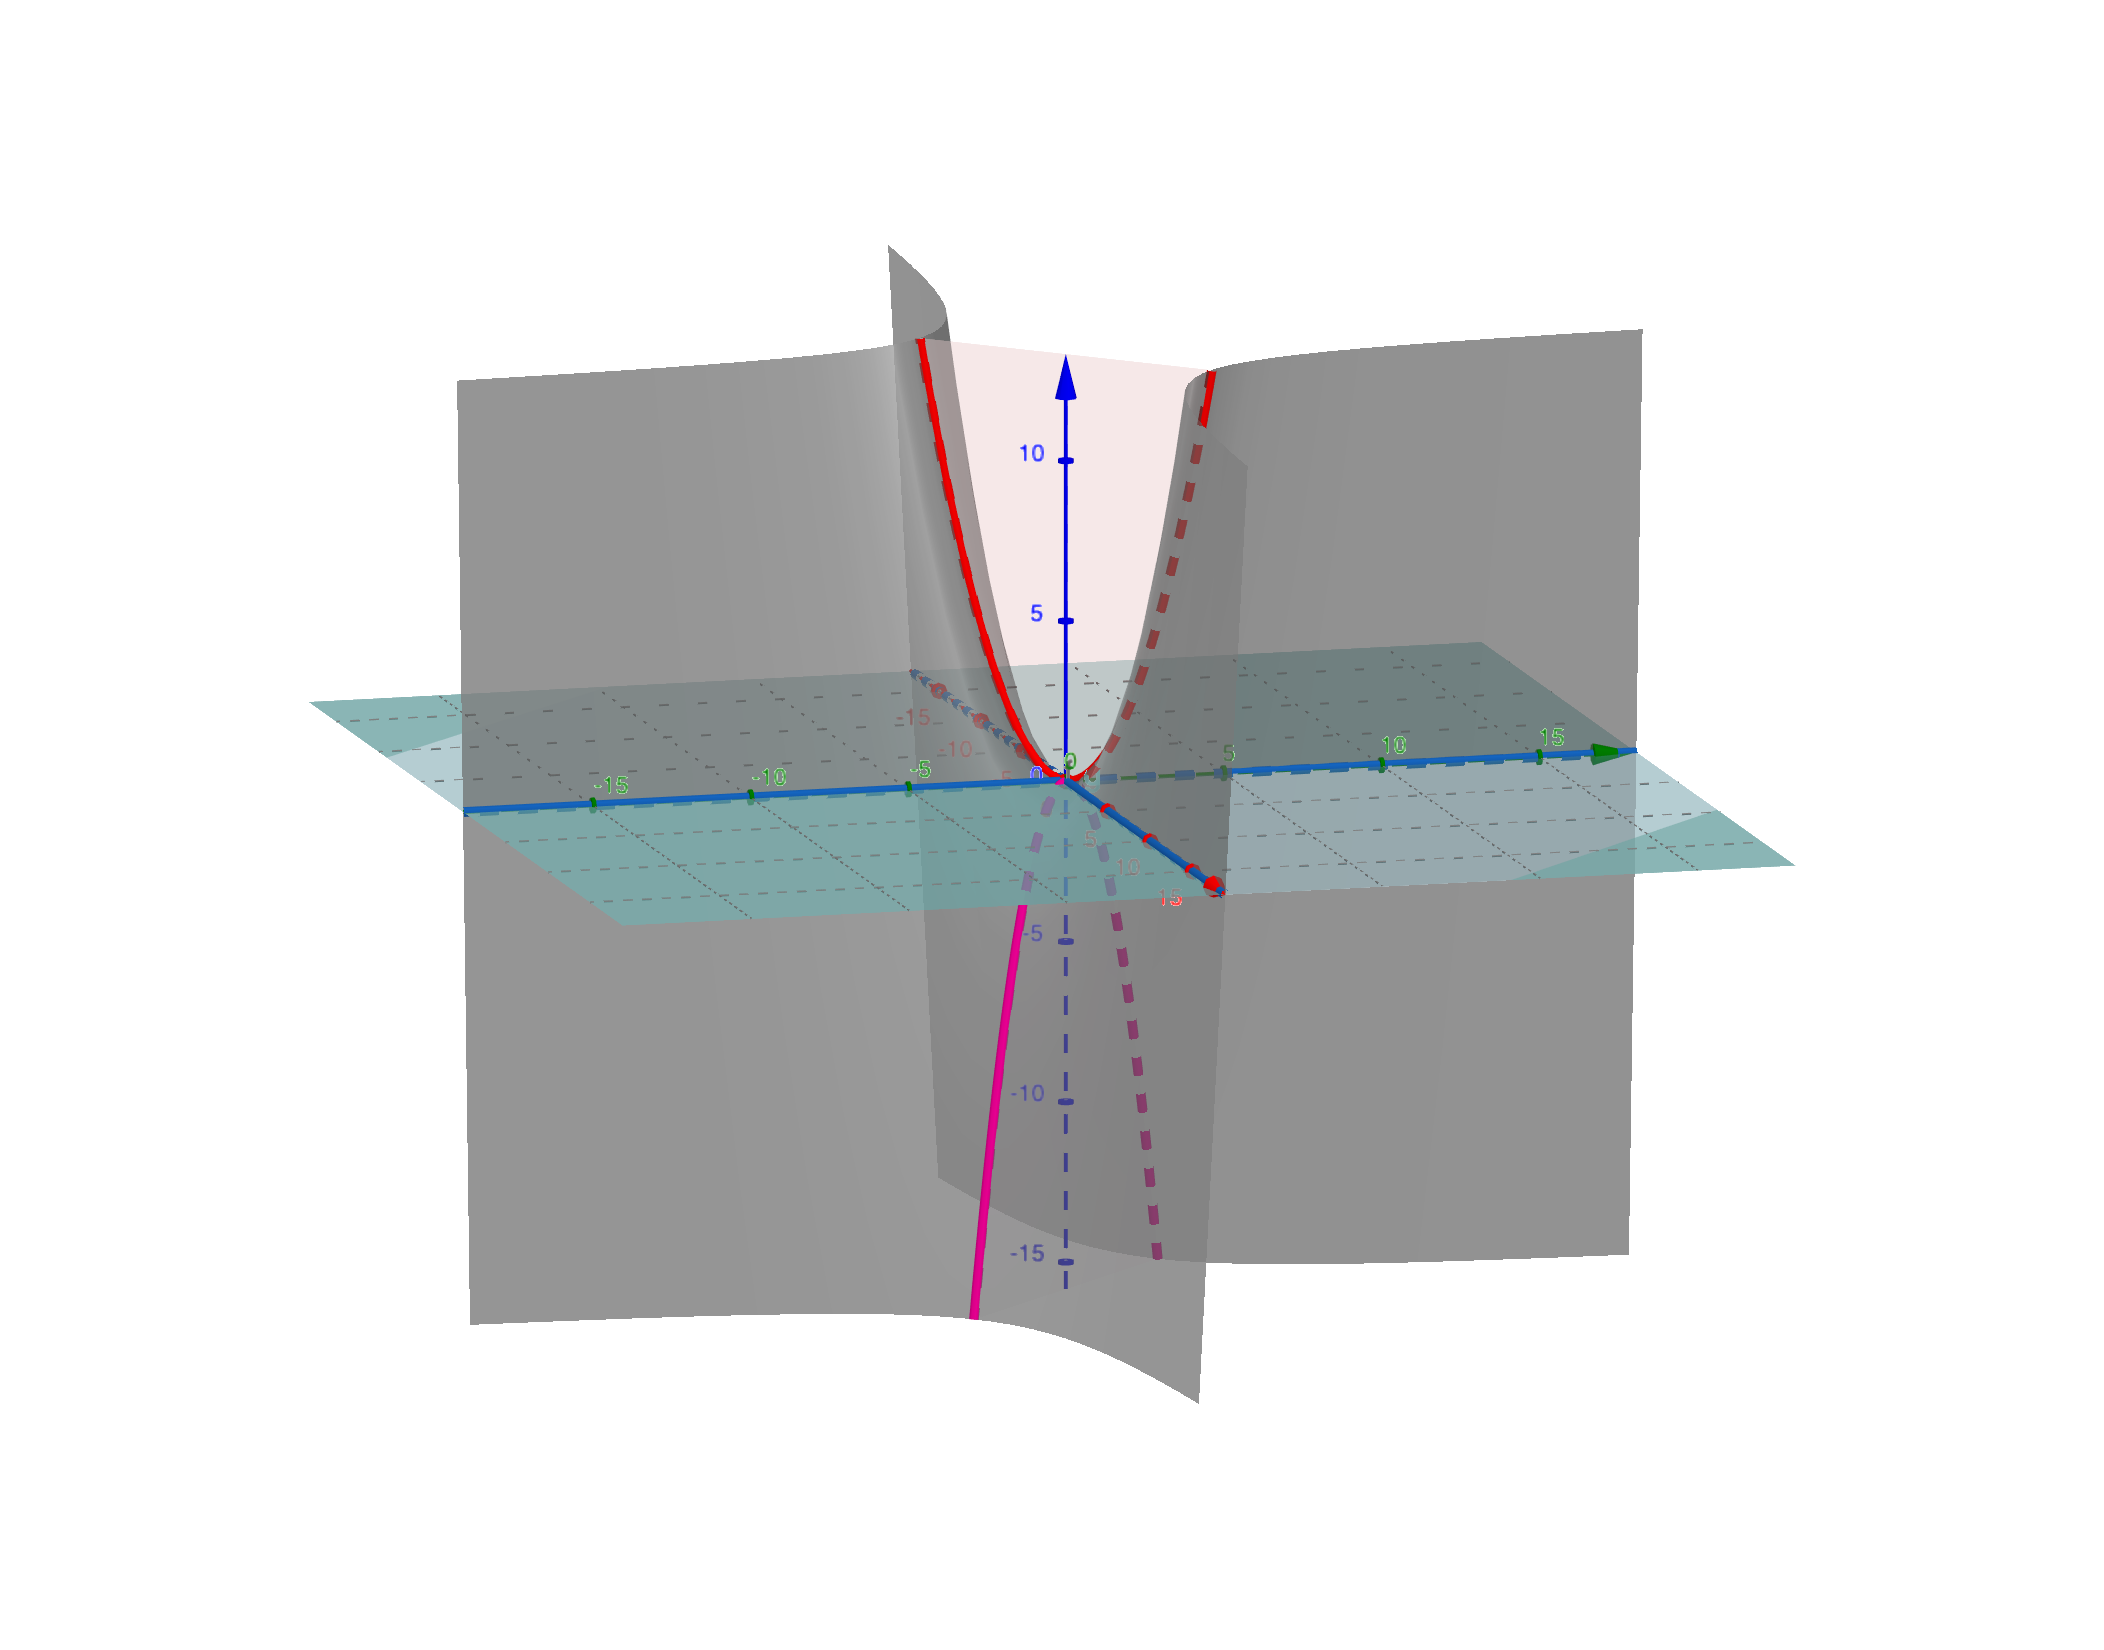
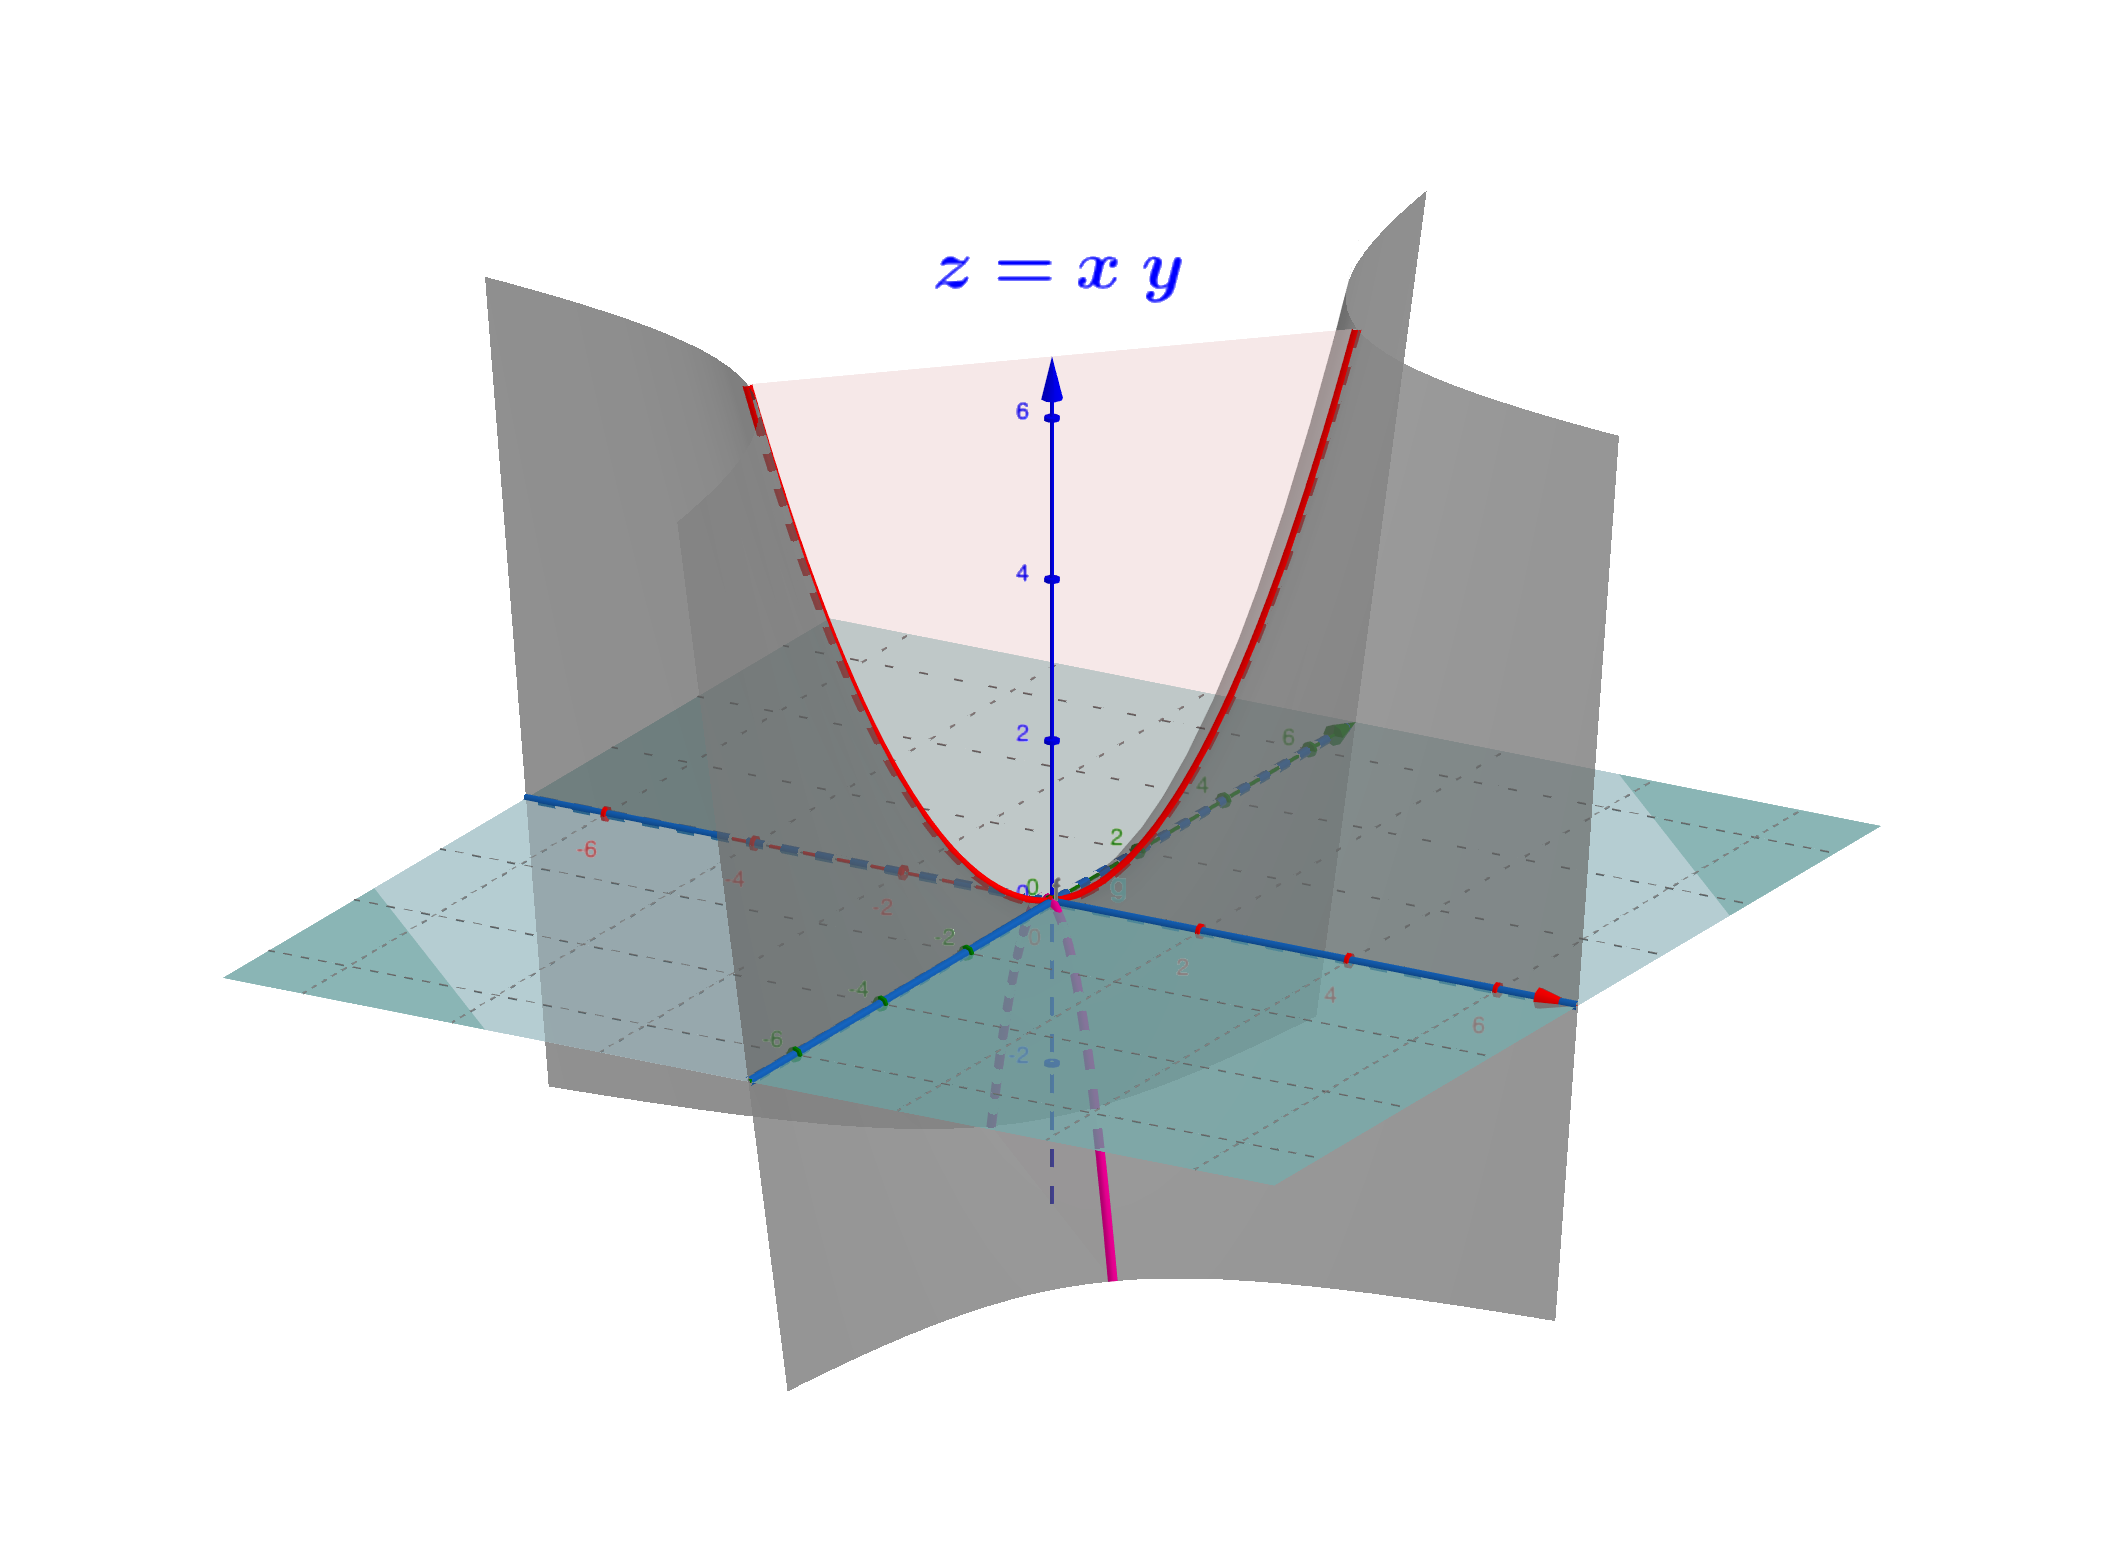
version2

Changed region(s): [[0.0927, 0.1229, 0.8959, 0.8912]]

diff --git a/_teaching/CartesianGeometry.md b/_teaching/CartesianGeometry.md
@@ -1251,15 +1251,31 @@ $xy + yz + xz = 0$
 
 **📌双曲抛物面**
 
+马鞍面的标准方程为$z = \dfrac{x^2}{p^2} - \dfrac{y^2}{q^2}$，特别的$z = xy$为一马鞍面。
+
+
 <center>
   <a href="https://www.geogebra.org/classic/g4dqpkk4 ">
-    <img src="./imags/Hypobolic_paraboloid.png" width="300" height="300"/>
+    <img src="./imags/Hypobolic_paraboloid.png" width="400" height="400"/>
   </a>
 
   <a href="https://www.geogebra.org/classic/nsypppjd">
-    <img src="./imags/Hypobolic_paraboloid_xy.png" width="300" height="300"/>
+    <img src="./imags/Hypobolic_paraboloid_xy.png" width="400" height="400"/>
   </a>
 </center>
+
+**📌直纹面**
+
+一曲面$S$称为<span style="color:red">**直纹面**</span>，如果存在一簇直线是的这一簇中的每一条直线都在$S$上；并且$S$上的每一个点都在这一簇的某一条直线上。这样一簇直线称为$S$的<span style="color:red">**一簇直母线**</span>。
+
+二次曲面中：二次柱面和锥面都是直纹面，椭球面不是直纹面，因为它有界。双叶双曲面不是直纹面，椭圆抛物面也不是直纹面。剩下的：单叶双曲面和双叶双曲面都是直纹面。
+
+
+<center>
+  <img src="./imags/dege_quad_surf.png" width="500" height="200"/>
+</center>
+
+
 
 
 ## 📚参考书目
